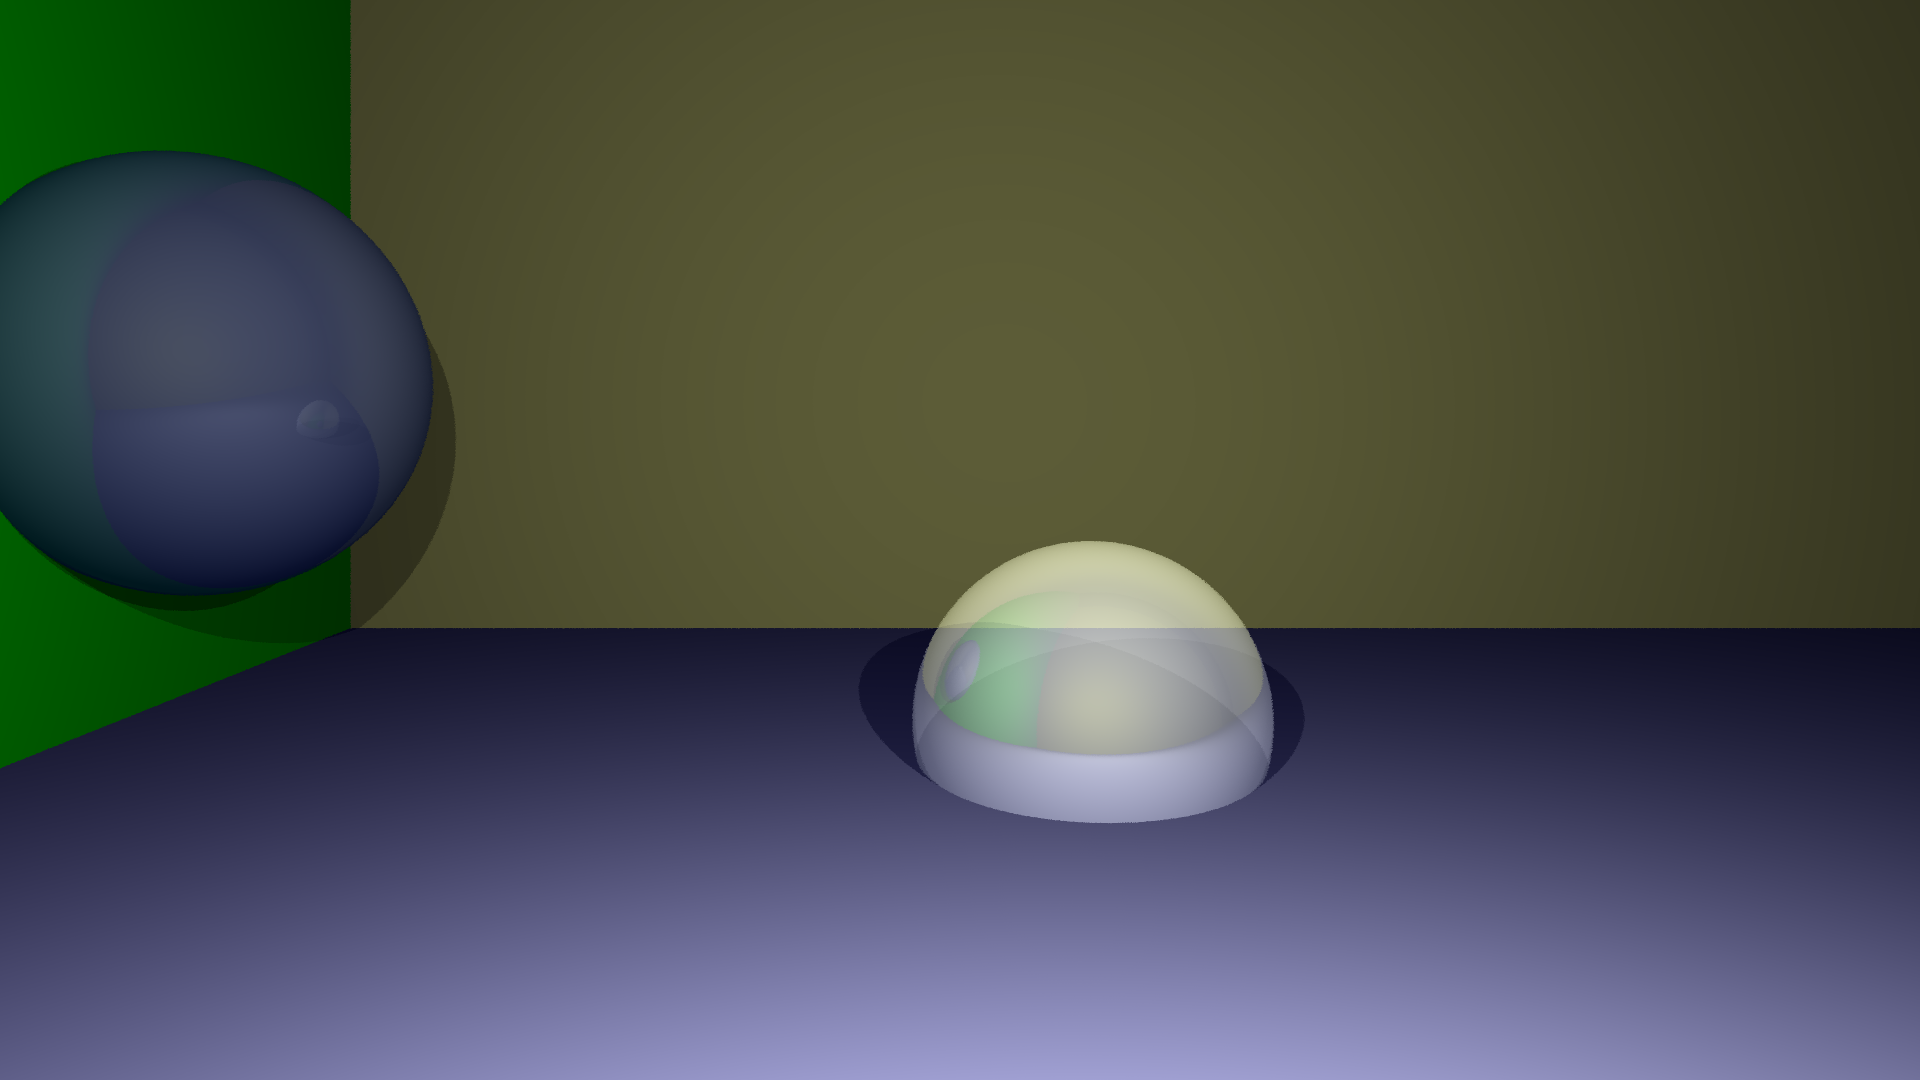
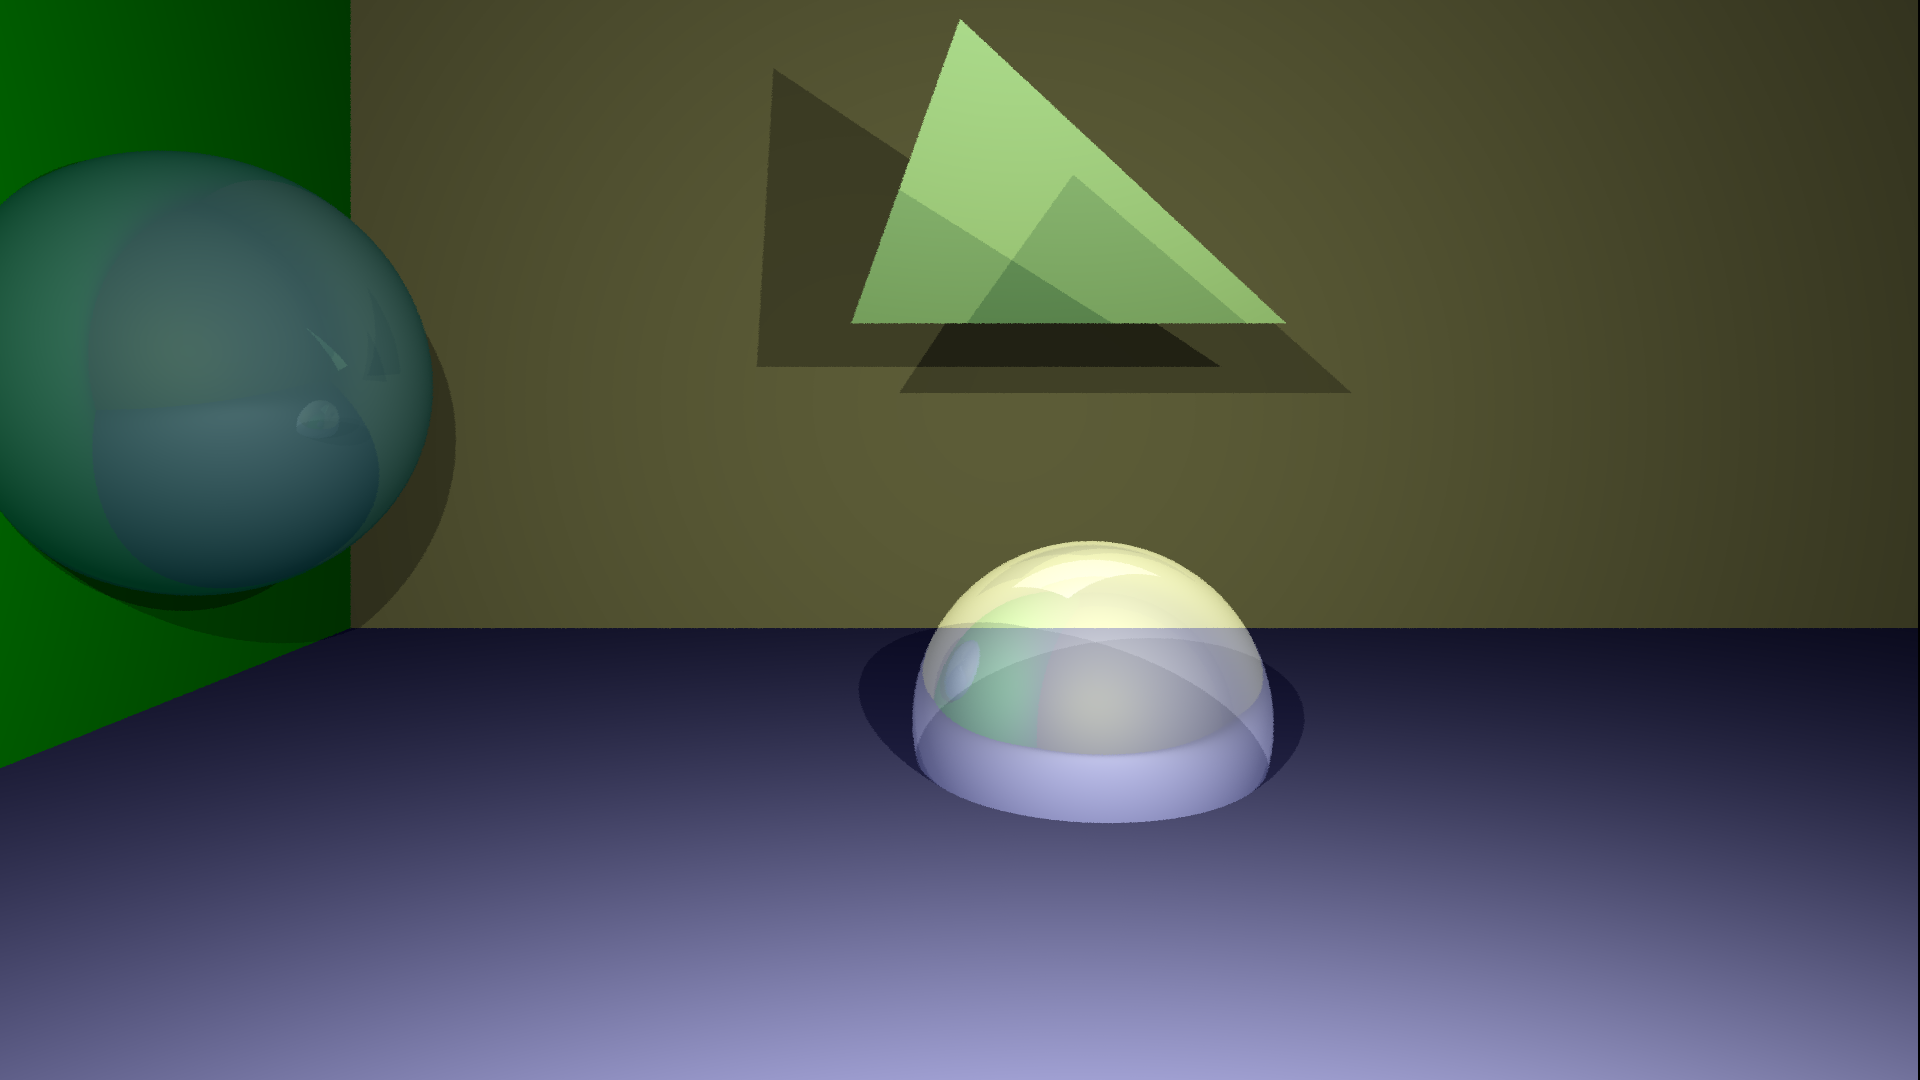
Added Triangles
I think there are some bugs with them, though. It'd be best to do more
   testing.

diff --git a/src/Triangle.java b/src/Triangle.java
@@ -1,0 +1,66 @@
+
+
+public class Triangle extends Plane {
+   private Vector3 verts[]; // v1, v2, v3
+   private Vector3 edges[]; // v1->v2, v2->v3, v3->v1
+
+
+   public Triangle(Vector3 v1, Vector3 v2, Vector3 v3, Material mat) {
+      super(v1, v2.diff(v1).cross(v3.diff(v1)).normalize(), mat);
+      verts = new Vector3[3];
+      edges = new Vector3[3];
+      // Store verts, Compute edges
+      verts[0] = v1; edges[0] = v2.diff(v1);
+      verts[1] = v2; edges[1] = v3.diff(v2);
+      verts[2] = v3; edges[2] = v1.diff(v3);
+
+   }
+
+   public HitData hitBy(Ray r) {
+      HitData ret = null;
+      HitData hd = super.hitBy(r);
+
+      if (hd != null) {
+         HitPoint hp = hd.getHitpoints().get(0);
+         // The ray definitely hit the plane this tri exists on
+         // Find out if the hitpoint is in the triangle
+         Vector3 htpnt = hp.getHitpoint();
+         Vector3 htnorm = hp.getNormal().normalize();
+         int sign;
+
+         // Walk the edges, take cross product with edge and to-point
+         boolean ansFound = true;
+         boolean ltz = true, gtz = true;
+         for (int i = 0; i < 3; i++) {
+            Vector3 tohitpt = htpnt.diff(verts[i]).normalize();
+            Vector3 edge = edges[i].normalize();
+            Vector3 cross = edge.cross(tohitpt).normalize();
+
+            // uhhh
+            if (cross.len() == 0) {
+               // There's no intersection
+               ansFound = false;
+               break;
+            }
+
+            double norm_cross_ang = htnorm.dot(cross);
+            ltz = ltz && norm_cross_ang < 0;
+            gtz = gtz && norm_cross_ang > 0;
+
+            
+         }
+         if (ansFound && (ltz || gtz)) {
+            // The intersection was in the triangle!
+            ret = hd;
+         }
+      }
+
+      return ret;
+   }
+
+
+    public Material materialPropsAt(Vector3 ray, FaceSide fs) {
+        return mat;
+    }
+
+}

diff --git a/src/Test.java b/src/Test.java
@@ -30,6 +30,14 @@ public class Test {
         Sphere s2 = new Sphere(new Vector3(1.1,-1.5,-6), 1.5, mats2);
         myScene.renderables.add(s2);
 
+        
+        Material t1Mat = new Material(colorb, Vector3.ZERO, diffc, 6);
+        Vector3 t1v1 = new Vector3(-1, 2, -7);
+        Vector3 t1v2 = new Vector3(3, 2, -7);
+        Vector3 t1v3 = new Vector3(0, 4, -5);
+        Triangle t1 = new Triangle(t1v1, t1v2, t1v3, t1Mat);
+        myScene.renderables.add(t1);
+
 
         Plane b = new Plane(new Vector3(0,-2,-5), new Vector3(0,1,.2), matc);
         myScene.renderables.add(b);

diff --git a/src/Camera.java b/src/Camera.java
@@ -51,7 +51,7 @@ public class Camera {
         BufferedImage img = new BufferedImage(roptions.width, roptions.height,
             BufferedImage.TYPE_INT_RGB);
         // Generate several threads that render seperate parts of the scene
-        int nthreads = 5;
+        int nthreads = 7;
         Thread threads[] = new Thread[nthreads];
         for (int i = 0; i < nthreads; i++) {
            // Calculate the current thread's range to render
